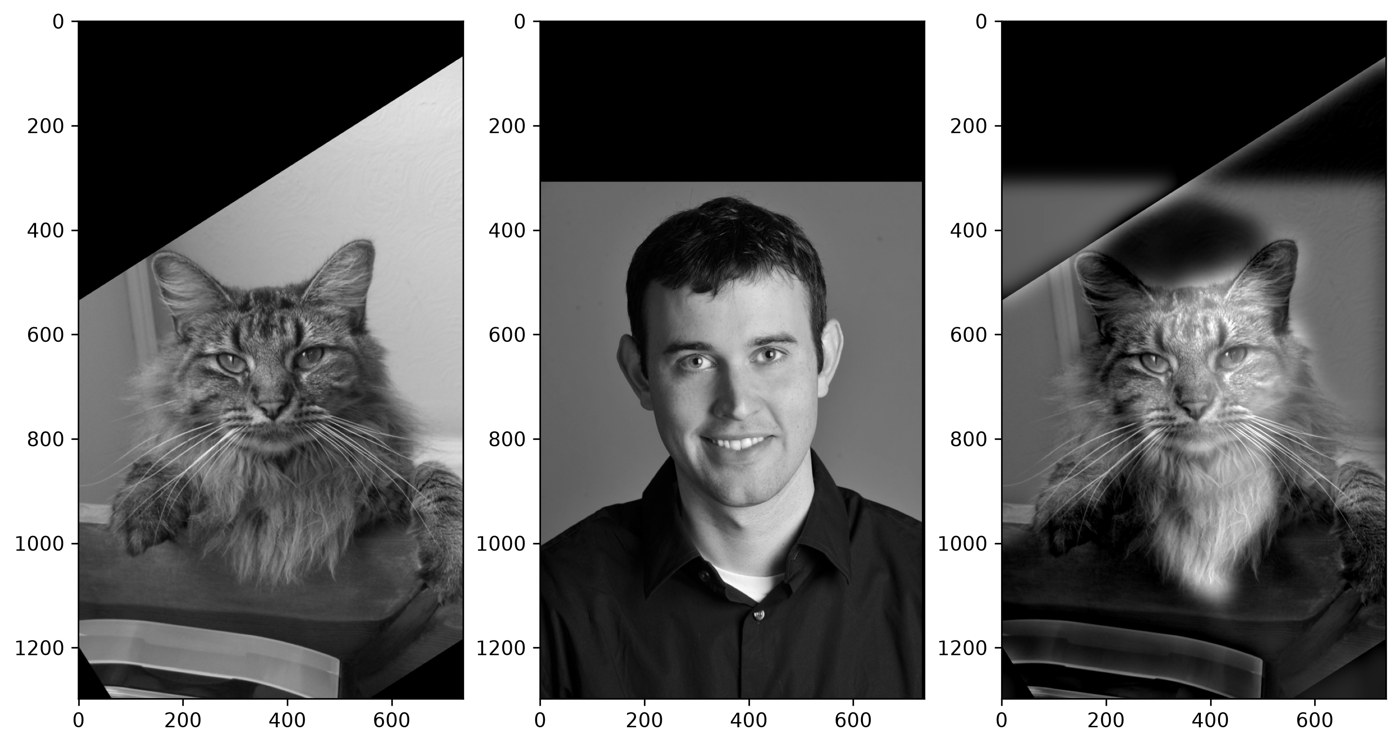
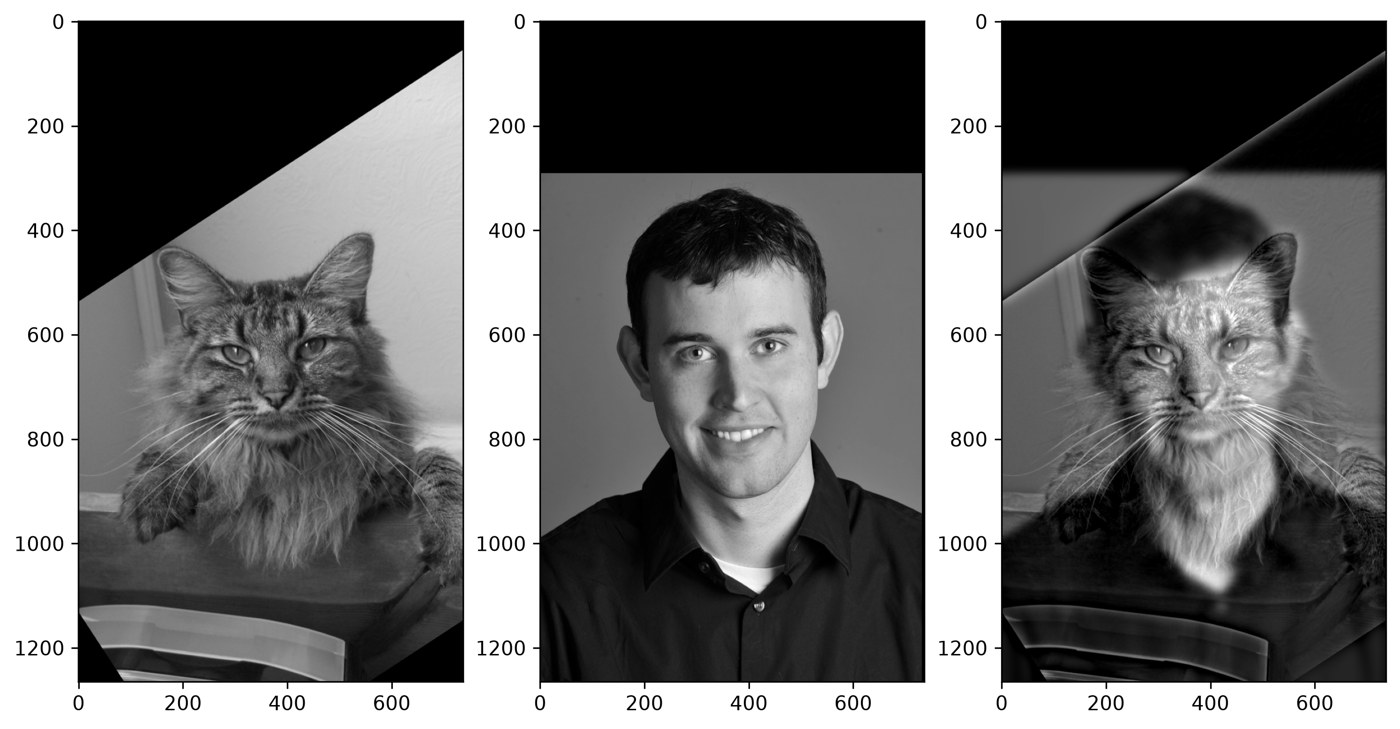
Update Project 2 Webpage

diff --git a/project_2/web/index.html b/project_2/web/index.html
@@ -573,12 +573,12 @@ dy_scipy_image  = convolve2d(image, Dy, mode='same')</code></pre>
 
   <p class="q">Verify: same result as Method A?</p>
   <figure style="max-width:560px">
-    <img src="media/1_3_verification.png" alt="np.array_equal on the two gradient magnitudes with a 5-pixel border cropped returns True" loading="lazy">
+    <img src="media/1_3_verification.png" alt="np.array_equal on the two gradient magnitudes with a 1-pixel border cropped returns True" loading="lazy">
   </figure>
   <div class="notes">
     <ul>
       <li>Convolution is associative, which means that applying whichever convolution first does not change the output result. It is applying a weight sum of pixels to the arrays, hence does not matter whichever is applied first.</li>
-      <li>The outer 5 rows and columns (each of top, bottom, right, left) were cropped out when calculating the equivalence. This was due to each convolution of Dx and Dy on the Gaussian kernel ending up with extra rows/columns due to paddings from mode=’same’ in convolve2d. The paddings only differed because mode=’same’ of convolve2d cropped out the paddings twice on the first method and only once on the second method, hence had different pixel values in the paddings only. The rest of the image pixels were assumed to be equivalent.</li>
+      <li>This is because in method A, convolve2d(...mode='same') was used twice. mode='same' crops out the newly padded pixels resulting from the convolution, which is a loss of information for the pixels at the very edge of the image when convolving again with Dy and Dx. Hence, the very end row and column pixels of the image should differ from the DoG method, where the information is already applied to the Gaussian kernel, then to the image. Hence, the end pixels of the image was cropped away, and the rest of the internal pixels were successfully compared to be equal.</li>
     </ul>
   </div>
 </section>
@@ -681,11 +681,11 @@ dy_scipy_image  = convolve2d(image, Dy, mode='same')</code></pre>
   <div class="grid-2" style="max-width:640px">
     <figure>
       <img src="media/2_2_input_hanjoo.jpg" alt="Input: Hanjoo selfie (low frequency)" loading="lazy">
-      <figcaption><strong>Low frequency</strong> &middot; Hanjoo</figcaption>
+      <figcaption><strong>Input</strong> &middot; Hanjoo (low-pass source)</figcaption>
     </figure>
     <figure>
       <img src="media/2_2_input_tori.jpg" alt="Input: Tori the dog (high frequency)" loading="lazy">
-      <figcaption><strong>High frequency</strong> &middot; Tori</figcaption>
+      <figcaption><strong>Input</strong> &middot; Tori (high-pass source)</figcaption>
     </figure>
   </div>
 
@@ -696,12 +696,20 @@ dy_scipy_image  = convolve2d(image, Dy, mode='same')</code></pre>
     <div class="params"><span>&sigma;<sub>low</sub> = 5</span><span>&sigma;<sub>high</sub> = 12</span></div>
   </figure>
 
+  <p class="q">Alignment</p>
+  <div class="notes">
+    <ul>
+      <li>The for facial images, they were aligned by aligning these points: The top-left of the left eye and the bottom right of the right eye in each subject image.</li>
+    </ul>
+  </div>
+
   <p class="q">Cutoff frequency choice</p>
   <div class="notes">
     <ul>
-      <li>Sigmas determine how wide the bell curve applied to the kernel is. With a larger sigma, the bell curve will be flatter, but would need a larger kernel. A kernel size of 6sigma + 1 was used as a dynamic kernel size, as most of the weights of the bell curve can be included by 3sigma away from the center, with the 1 added to make sure the kernel sizes were odd.</li>
+      <li>Gaussian sigmas determine how wide the bell curve applied to the kernel is. With a larger sigma, the bell curve will be flatter, but would need a larger kernel. A kernel size of 6sigma + 1 was used as a dynamic kernel size, as most of the weights of the bell curve can be included by 3sigma away from the center, with the 1 added to make sure the kernel sizes were odd.</li>
       <li>The sigmas were selected through trial and error based on the resulting hybrid image. The ideal result would be to see the high frequency image more close up and the low frequency image more from afar.</li>
-      <li>The sigma for the low frequency is expected to be somewhat lower than the sigma for the higher frequency. However it cannot be too too small so that high frequencies are not smoothed out enough, which would make the differentiation of high and low frequency images meaningless.</li>
+      <li>Sigma for low-pass filters were ideally high enough so that the high frequencies are filtered out and blurred, but not too much so that the features that determine the shape of the figures are not unrecognizable from afar. On the other hand, high-pass filters ideally leave only high frequency and some of the mid-level frequency features left to be recognizable up close. So the sigma is not too low, as subtracting a slightly blurred image will leave only the highest frequencies behind and not the medium frequencies.</li>
+      <li>The cutoff frequencies were found by adjusting the sigma values experimentally and evaluated by being near and far visually.</li>
     </ul>
   </div>
 
@@ -720,7 +728,7 @@ dy_scipy_image  = convolve2d(image, Dy, mode='same')</code></pre>
   <h3 class="subhead">Tori &times; Tori</h3>
   <figure class="fig-full">
     <img src="media/2_2_tori_tori.jpg" alt="Tori image 1, Tori image 2, and their hybrid" loading="lazy">
-    <figcaption>Low frequency &middot; High frequency &middot; Hybrid</figcaption>
+    <figcaption>Aligned Tori 1 &middot; Aligned Tori 2 &middot; Hybrid (Tori 1 low-pass + Tori 2 high-pass)</figcaption>
     <div class="params"><span>&sigma;<sub>low</sub> = 9</span><span>&sigma;<sub>high</sub> = 12</span></div>
   </figure>
   <div class="notes">
@@ -733,8 +741,8 @@ dy_scipy_image  = convolve2d(image, Dy, mode='same')</code></pre>
   <h3 class="subhead">Derek &times; Nutmeg</h3>
   <figure class="fig-full">
     <img src="media/2_2_derek_nutmeg.jpg" alt="Aligned Nutmeg, aligned Derek, and their hybrid" loading="lazy">
-    <figcaption>Nutmeg (high frequency) &middot; Derek (low frequency) &middot; Hybrid</figcaption>
-    <div class="params"><span>&sigma;<sub>low</sub> = 16</span><span>&sigma;<sub>high</sub> = 20</span></div>
+    <figcaption>Aligned Nutmeg &middot; Aligned Derek &middot; Hybrid (Derek low-pass + Nutmeg high-pass)</figcaption>
+    <div class="params"><span>&sigma;<sub>low</sub> = 8</span><span>&sigma;<sub>high</sub> = 12</span></div>
   </figure>
   <div class="notes">
     <ul>
@@ -972,7 +980,7 @@ dy_scipy_image  = convolve2d(image, Dy, mode='same')</code></pre>
   <div class="notes">
     <ul>
       <li>The building reflection image was a picture I took at Docklands, Melbourne.</li>
-      <li>This reflection mask was a rectangular mask in the middle of the sea which tried to blend at the coast of the opera house and the Docklands harbor coast.</li>
+      <li>The reflection mask was a irregular mask that cut out the building reflections which tried to blend at the coast of the opera house and the Docklands harbor coast.</li>
       <li>It was an attempt to make two worlds collide again, where the reflection of the opera house is replaced by the reflection of the buildings.</li>
     </ul>
   </div>
@@ -1024,7 +1032,14 @@ dy_scipy_image  = convolve2d(image, Dy, mode='same')</code></pre>
   <h2>The Most Important Thing I Learned</h2>
   <div class="notes">
     <ul>
-      <li>I’ve definitely learned that levels of frequencies are able to be played around with, and partakes a lot in the human vision.</li>
+      <li>I’ve definitely learned that levels of frequencies are able to be played around with, and partakes a lot in the human vision. I didn’t know Gaussian blurring was so useful in different use cases, by using it to exploit the frequency content of images. Images have such a high dimension but can be manipulated in ingenious ways for magical results.</li>
+      <li>Each application was fascinating:
+        <ul>
+          <li>Unsharping was the simple yet effective idea of strengthening the image’s high frequency component.</li>
+          <li>Hybrid Images exploits how high and low frequency are perceived by the human eye depending on distance.</li>
+          <li>Gaussian and Laplacian stacks decompose images across multiple frequency levels. Blending corresponding levels with a blurred mask allowing for a smooth blend adding them back.</li>
+        </ul></li>
+      <li>All unlocked mysteries that I subconsciously held about image manipulations whenever I were in touch with them</li>
     </ul>
   </div>
 </section>
